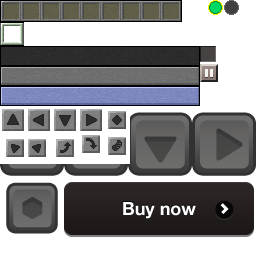
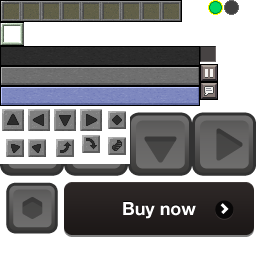
ADD: pause and chat btn

Changed region(s): [[0.7812, 0.25, 0.875, 0.4062]]

diff --git a/src/client/player/input/touchscreen/TouchscreenInput.cpp b/src/client/player/input/touchscreen/TouchscreenInput.cpp
@@ -9,7 +9,10 @@
 #include "../../../../platform/log.h"
 #include "../../../renderer/Textures.h"
 #include "../../../sound/SoundEngine.h"
+#include "client/gui/screens/ScreenChooser.h"
 
+
+// ARGHHHHHH WHY NOT FUCKING ENUM
 static const int AREA_DPAD_FIRST = 100;
 static const int AREA_DPAD_N = 100;
 static const int AREA_DPAD_S = 101;
@@ -17,6 +20,7 @@ static const int AREA_DPAD_W = 102;
 static const int AREA_DPAD_E = 103;
 static const int AREA_DPAD_C = 104;
 static const int AREA_PAUSE = 105;
+static const int AREA_CHAT = 106;
 
 static int cPressed = 0;
 static int cReleased = 0;
@@ -158,14 +162,11 @@ void TouchscreenInput_TestFps::onConfigChanged(const Config& c) {
 	xx = BaseX + 2 * Bw; yy = BaseY + Bh;
 	_model.addArea(AREA_DPAD_E, aRight = new RectangleArea(xx, yy, xx+Bw, yy+Bh));
 
-#ifdef __APPLE__
     float maxPixels = _minecraft->pixelCalc.millimetersToPixels(10);
-    float btnSize = Mth::Min(18 * Gui::GuiScale, maxPixels);
-	_model.addArea(AREA_PAUSE, aPause = new RectangleArea(w - 4 - btnSize,
-                                                          4,
-                                                          w - 4,
-                                                          4 + btnSize));
-#endif /* __APPLE__ */
+    // float btnSize = Mth::Min(18 * Gui::GuiScale, maxPixels);
+	float btnSize = pc.millimetersToPixels(50);
+	_model.addArea(AREA_PAUSE, aPause = new RectangleArea(w - 4 - btnSize, 4, w - 4, 4 + btnSize));
+	_model.addArea(AREA_CHAT,  aChat  = new RectangleArea(w - 8 - btnSize * 2, 4, w - 8 - btnSize, 4 + btnSize));
 
 	//rebuild();
 }
@@ -309,14 +310,19 @@ void TouchscreenInput_TestFps::tick( Player* player )
 			setButton = true;
 			xa -= 1;
 		}
-#ifdef __APPLE__
 		else if (areaId == AREA_PAUSE) {
 			if (Multitouch::isReleased(p)) {
                 _minecraft->soundEngine->playUI("random.click", 1, 1);
 				_minecraft->screenChooser.setScreen(SCREEN_PAUSE);
             }
 		}
-#endif /*__APPLE__*/
+		else if (areaId == AREA_CHAT) {
+			if (Multitouch::isReleased(p)) {
+                _minecraft->soundEngine->playUI("random.click", 1, 1);
+				_minecraft->screenChooser.setScreen(SCREEN_CONSOLE);
+            }
+		}
+
 		_buttons[areaId - AREA_DPAD_FIRST] = setButton;
 	}
 
@@ -499,15 +505,14 @@ void TouchscreenInput_TestFps::rebuild() {
 		drawRectangleArea(t, aJump, imageU + imageSize * 4, imageV, (float)imageSize);
 	}
 	
-
-#ifdef __APPLE__
 	if (!_minecraft->screen) {
-		if (isButtonDown(AREA_PAUSE))  t.colorABGR(cPressedPause);
-		else						   t.colorABGR(cReleasedPause);
+		t.colorABGR(0xFFFFFFFF);
+		// if (isButtonDown(AREA_PAUSE))  t.colorABGR(cPressedPause);
+		// else						   t.colorABGR(cReleasedPause);
 		
         drawRectangleArea(t, aPause, 200, 64, 18.0f);
+		drawRectangleArea(t, aChat,  200, 82, 18.0f);
 	}
-#endif /*__APPLE__*/
 //t.end(true, _bufferId);
 	//return;
 

diff --git a/src/client/gui/screens/ConsoleScreen.cpp b/src/client/gui/screens/ConsoleScreen.cpp
@@ -216,8 +216,5 @@ void ConsoleScreen::render(int /*xm*/, int /*ym*/, float /*a*/)
         displayed += '_';
 
     // Placeholder hint when empty
-    if (_input.empty() && (_cursorBlink / 10) % 2 != 0)
-        font->drawShadow("Type a message or /command", (float)(boxX0 + 2), (float)(boxY + 2), 0xff606060);
-    else
-        font->drawShadow(displayed, (float)(boxX0 + 2), (float)(boxY + 2), 0xffffffff);
+    font->drawShadow(displayed, (float)(boxX0 + 2), (float)(boxY + 2), 0xffffffff);
 }

diff --git a/src/client/gui/screens/ScreenChooser.cpp b/src/client/gui/screens/ScreenChooser.cpp
@@ -4,6 +4,7 @@
 #include "JoinGameScreen.h"
 #include "PauseScreen.h"
 #include "RenameMPLevelScreen.h"
+#include "ConsoleScreen.h"
 #include "IngameBlockSelectionScreen.h"
 #include "JoinByIPScreen.h"
 #include "touch/TouchStartMenuScreen.h"
@@ -19,6 +20,7 @@ Screen* ScreenChooser::createScreen( ScreenId id )
 {
 	Screen* screen = NULL;
 
+	// :sob:
 	if (_mc->useTouchscreen()) {
 		switch (id) {
 		case SCREEN_STARTMENU:	     screen = new Touch::StartMenuScreen();	break;
@@ -28,6 +30,7 @@ Screen* ScreenChooser::createScreen( ScreenId id )
 		case SCREEN_PAUSEPREV:	     screen = new PauseScreen(true);	 break;
 		case SCREEN_BLOCKSELECTION:	 screen = new Touch::IngameBlockSelectionScreen();	break;
 		case SCREEN_JOINBYIP:        screen = new JoinByIPScreen(); break;
+		case SCREEN_CONSOLE:		 screen = new ConsoleScreen(); break;
 		case SCREEN_NONE:
 		default:
 			// Do nothing
@@ -42,7 +45,7 @@ Screen* ScreenChooser::createScreen( ScreenId id )
 		case SCREEN_PAUSEPREV:	     screen = new PauseScreen(true);	 break;
 		case SCREEN_BLOCKSELECTION:	 screen = new IngameBlockSelectionScreen();	break;
 		case SCREEN_JOINBYIP:        screen = new JoinByIPScreen(); break;
-
+		case SCREEN_CONSOLE:		 screen = new ConsoleScreen(); break;
 		case SCREEN_NONE:
 		default:
 			// Do nothing

diff --git a/src/client/gui/screens/ScreenChooser.h b/src/client/gui/screens/ScreenChooser.h
@@ -9,7 +9,8 @@ enum ScreenId {
 	SCREEN_PAUSEPREV,
 	SCREEN_SELECTWORLD,
 	SCREEN_BLOCKSELECTION,
-	SCREEN_JOINBYIP
+	SCREEN_JOINBYIP,
+	SCREEN_CONSOLE
 };
 
 class Screen;

diff --git a/src/client/player/input/touchscreen/TouchInputHolder.h b/src/client/player/input/touchscreen/TouchInputHolder.h
@@ -426,9 +426,7 @@ public:
 	virtual void onConfigChanged(const Config& c) {
 		_move.onConfigChanged(c);
 		_turnBuild.moveArea = _move.getRectangleArea();
-#ifdef __APPLE__
 		_turnBuild.pauseArea = _move.getPauseRectangleArea();
-#endif
 		_turnBuild.inventoryArea = _mc->gui.getRectangleArea( _mc->options.getBooleanValue(OPTIONS_IS_LEFT_HANDED)? 1 : -1 );
 		_turnBuild.setSensitivity(c.options->getBooleanValue(OPTIONS_IS_JOY_TOUCH_AREA)? 1.8f : 1.0f);
 		((ITurnInput*)&_turnBuild)->onConfigChanged(c);

diff --git a/src/client/player/input/touchscreen/TouchscreenInput.h b/src/client/player/input/touchscreen/TouchscreenInput.h
@@ -61,6 +61,7 @@ private:
 	RectangleArea* aUp;
 	RectangleArea* aDown;
 	RectangleArea* aPause;
+	RectangleArea* aChat;
 	//RectangleArea* aUpJump;
 	RectangleArea* aJump;
 	RectangleArea* aUpLeft;